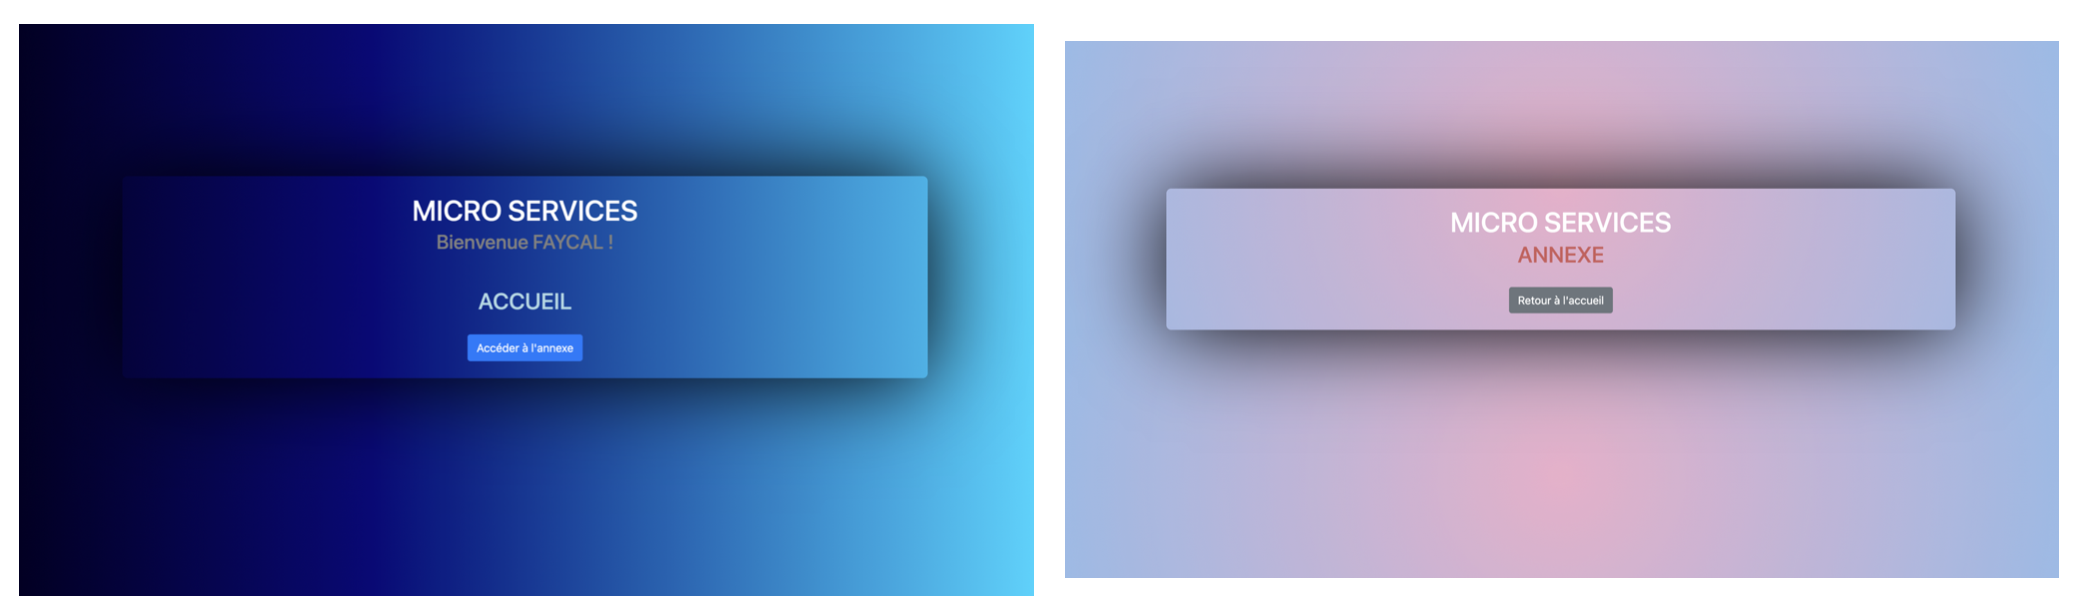
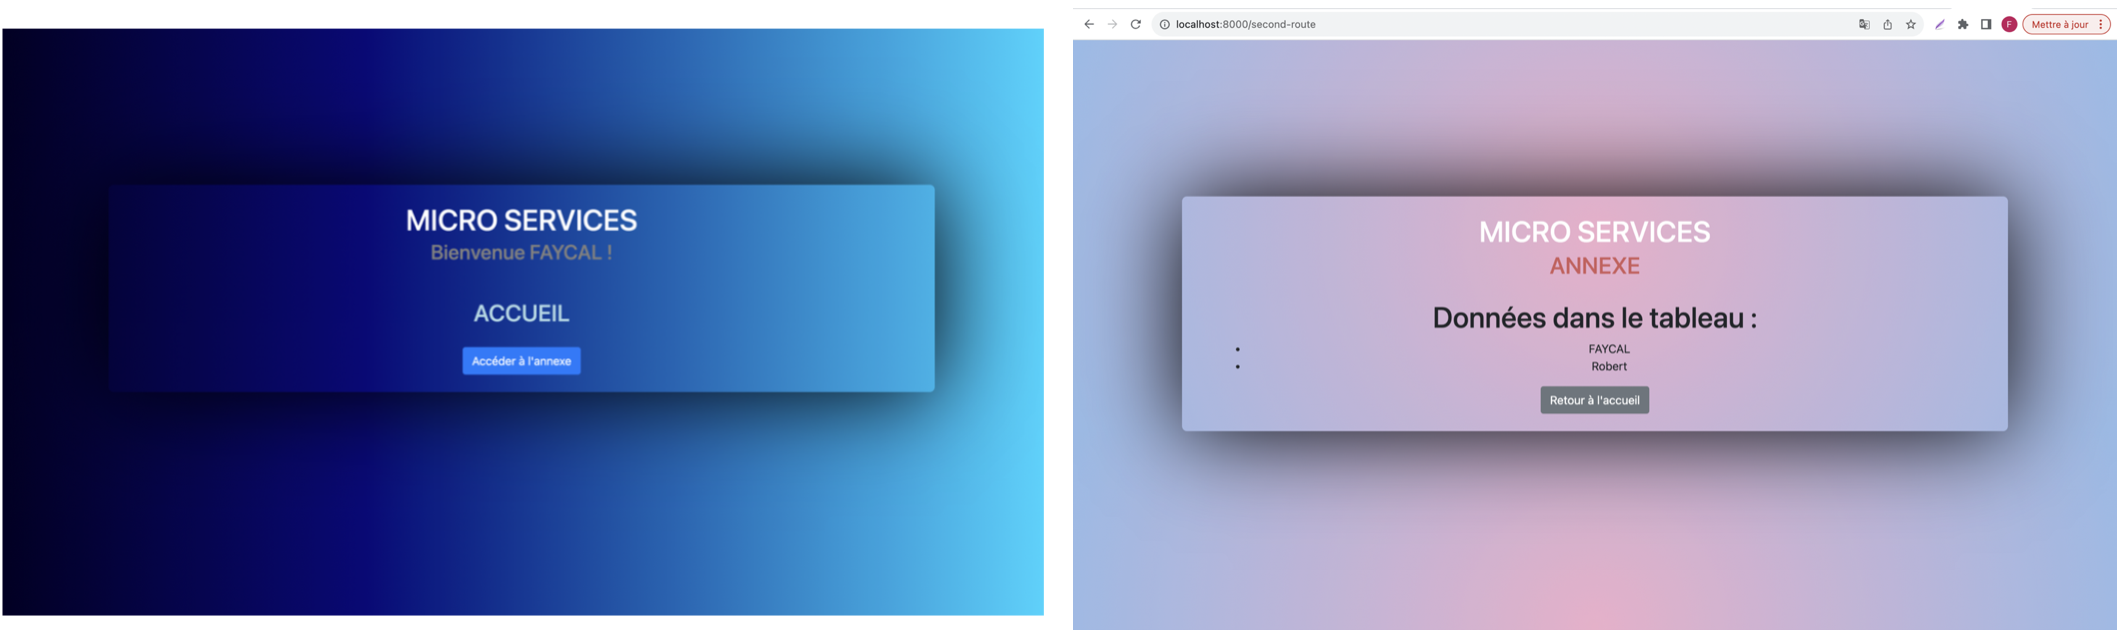
wip

Changed region(s): [[0.0, 0.0309, 1.0, 1.0], [0.5625, 0.2785, 0.9375, 0.3094], [0.6875, 0.3404, 0.8125, 0.4332]]

diff --git a/templates/annexe.html b/templates/annexe.html
@@ -28,6 +28,12 @@
                     <!-- <h3 class="mb-5" style = "color:grey"><em>Code by Faycal</em></h3> -->
                     <h2 class="mb-1" style = "color:indianred">ANNEXE</h2>
                     <br>
+                    <h1>Données dans le tableau :</h1>
+                    <ul>
+                        {% for row in datas %}
+                            <li>{{ row }}</li>
+                        {% endfor %}
+                    </ul>
                     <a class="btn btn-secondary btn-xl" href="/">Retour à l'accueil</a>
                     <br><br>
                 </div>

diff --git a/main.py b/main.py
@@ -8,7 +8,7 @@ app = FastAPI()
 
 templates = Jinja2Templates(directory="templates")
 
-async def connect():
+def connect():
     connection = None
     db_data = None
     try:
@@ -23,8 +23,8 @@ async def connect():
         # creation du curseur pour faciliter les opérations vers la bdd
         crsr = connection.cursor()
         # Requête à la bdd
-        await crsr.execute('SELECT name FROM utilisateur WHERE id=1')
-        db_data = crsr.fetchone()
+        crsr.execute('SELECT name FROM utilisateur')
+        db_data = crsr.fetchall()
         crsr.close()
 
         if db_data is None:
@@ -38,17 +38,19 @@ async def connect():
             print('Connexion à la base de données terminée.')
 
     return db_data
-
+print(connect())
+# Création de la première route qui sera l'Acceuil
 # def index():
 #     return { "message": f"Hello {env['MY_VARIABLE']} !"}
 @app.get("/")
-async def index(request: Request):
-    row = await connect()  # Appel de la fonction connect pour obtenir les données)
+def index(request: Request):
     return templates.TemplateResponse("index.html", {"request": request, "my_variable": env['name']})
 
 
+# Création de la deuxième route qui sera la page annexe
 # def second_route():
 #     return { "message": "Ceci est la deuxième route."}
 @app.get("/second-route")
 def index(request: Request):
-    return templates.TemplateResponse("annexe.html", {"request": request})
+    rows = connect()  # Appel de la fonction connect pour obtenir les données)
+    return templates.TemplateResponse("annexe.html", {"request": request, "datas": rows })
